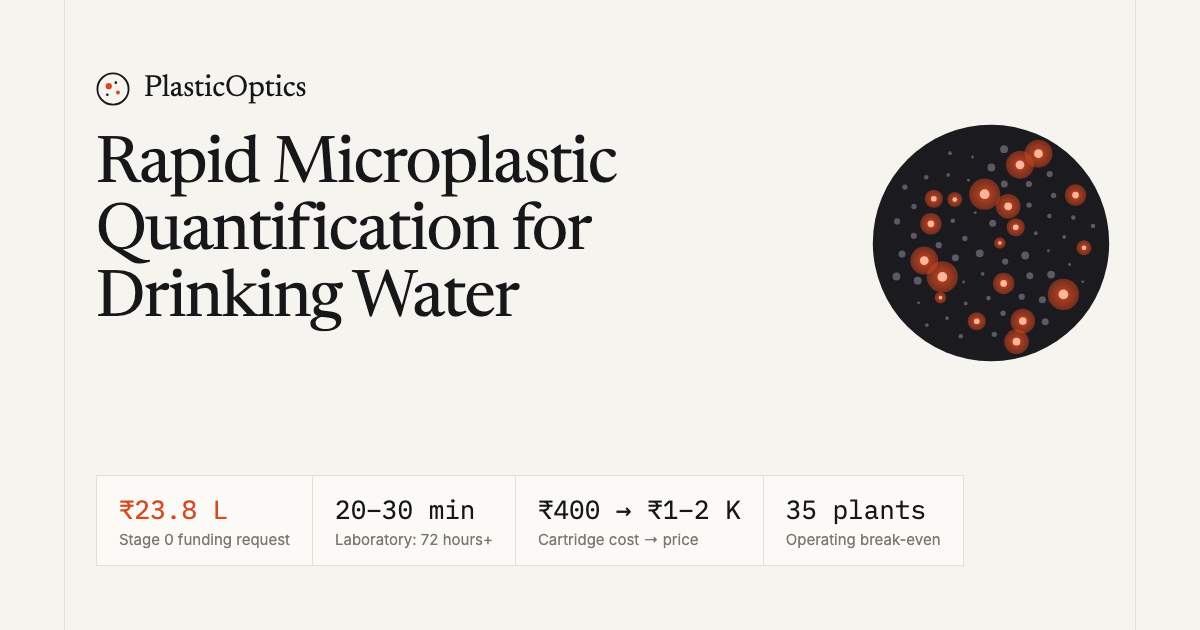
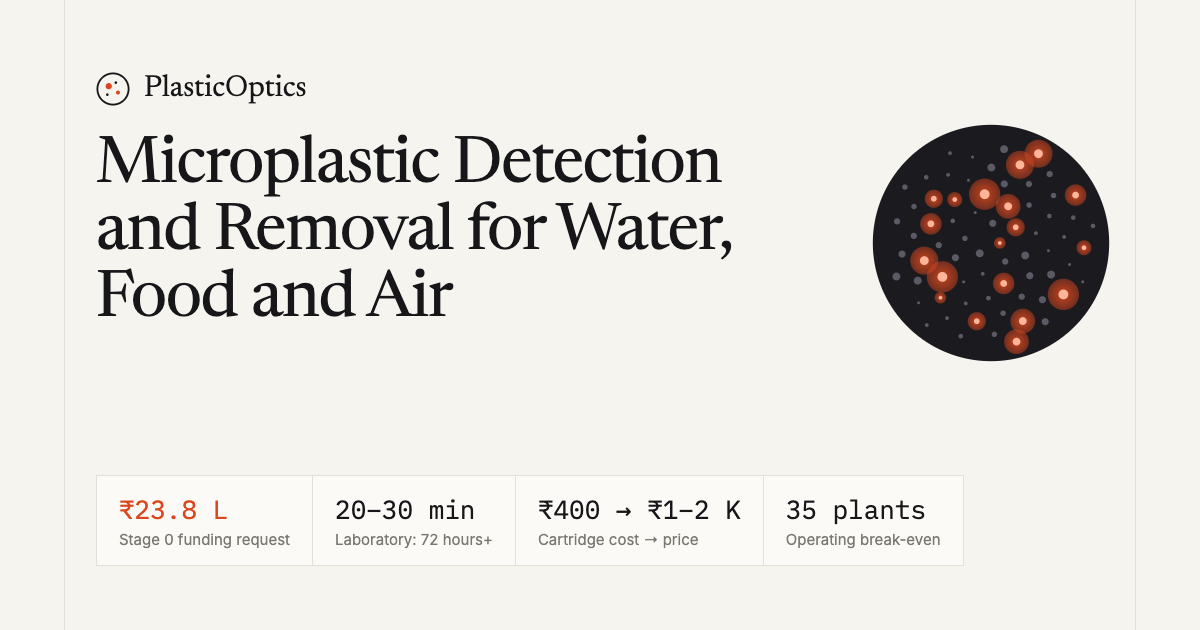
PlasticOptics: headline reflects full vision (water, food and air)

Changed region(s): [[0.0617, 0.2111, 0.6167, 0.5429]]

diff --git a/plastic.html b/plastic.html
@@ -11,13 +11,13 @@
     <meta charset="UTF-8" />
     <link rel="icon" type="image/png" href="/turtle.png" />
     <meta name="viewport" content="width=device-width, initial-scale=1.0" />
-    <meta name="description" content="PlasticOptics: benchtop analyser for rapid microplastic quantification in drinking water. Results in 20–30 minutes. Stage 0 funding request: ₹23.8 lakh." />
+    <meta name="description" content="PlasticOptics: microplastic detection and removal for water, food and air. The first product, a benchtop analyser for bottling plants, delivers results in 20–30 minutes. Stage 0 funding request: ₹23.8 lakh." />
     
     <!-- Open Graph / Social Share -->
     <meta property="og:type" content="website" />
     <meta property="og:url" content="https://srinikitha.com/plastic" />
     <meta property="og:title" content="PlasticOptics" />
-    <meta property="og:description" content="Benchtop analyser for rapid microplastic quantification in drinking water. Results in 20–30 minutes." />
+    <meta property="og:description" content="Microplastic detection and removal for water, food and air. The first product delivers results in 20–30 minutes." />
     <meta property="og:image" content="https://srinikitha.com/plastic-og.png" />
     <meta property="og:image:width" content="1200" />
     <meta property="og:image:height" content="630" />
@@ -26,7 +26,7 @@
     <meta name="twitter:card" content="summary_large_image" />
     <meta name="twitter:url" content="https://srinikitha.com/plastic" />
     <meta name="twitter:title" content="PlasticOptics" />
-    <meta name="twitter:description" content="Benchtop analyser for rapid microplastic quantification in drinking water. Results in 20–30 minutes." />
+    <meta name="twitter:description" content="Microplastic detection and removal for water, food and air. The first product delivers results in 20–30 minutes." />
     <meta name="twitter:image" content="https://srinikitha.com/plastic-og.png" />
     
     <link rel="preconnect" href="https://fonts.googleapis.com">

diff --git a/src/plastic/pages/Overview.tsx b/src/plastic/pages/Overview.tsx
@@ -36,15 +36,15 @@ export default function Overview() {
     <>
       <PageHead
         kicker="PlasticOptics · Overview"
-        title="Rapid Microplastic Quantification for Drinking Water"
+        title="Microplastic Detection and Removal for Water, Food and Air"
         lede={
           <>
             <p>
               <span className="text-[var(--po-ink)]">Objective:</span> {goal}
             </p>
             <p className="mt-3">
-              The first product is a benchtop analyser with single-use test cartridges. It enables quality-control teams
-              at bottling plants to test every production batch within 20–30 minutes.
+              The first product addresses drinking water: a benchtop analyser with single-use test cartridges. It enables
+              quality-control teams at bottling plants to test every production batch within 20–30 minutes.
             </p>
           </>
         }

diff --git a/src/plastic/pages/Roadmap.tsx b/src/plastic/pages/Roadmap.tsx
@@ -91,8 +91,9 @@ export default function Roadmap() {
         title="Product Roadmap"
         lede={
           <p>
-            The long-term objective is industrial-scale removal of microplastics from drinking water. This requires
-            continuous detection and removal chemistry that operates at plant volumes. Neither is available today.
+            The long-term objective is industrial-scale removal of microplastics from water, food and air, beginning with
+            drinking water. This requires continuous detection and removal chemistry that operates at plant volumes.
+            Neither is available today.
             Detection is developed first, as removal must be dosed and verified against measurement.
           </p>
         }

diff --git a/src/plastic/PlasticLayout.tsx b/src/plastic/PlasticLayout.tsx
@@ -164,7 +164,7 @@ export function PlasticLayout({ children }: { children: React.ReactNode }) {
           <div className="sticky top-0 h-screen flex flex-col justify-between py-10 pl-8 pr-6">
             <div>
               <Wordmark />
-              <p className="mt-3 text-[12.5px] muted leading-snug max-w-[18ch]">Microplastic detection for drinking water</p>
+              <p className="mt-3 text-[12.5px] muted leading-snug max-w-[18ch]">Microplastic detection and removal for water, food and air</p>
               <div className="mt-10">
                 <NavItems />
               </div>
